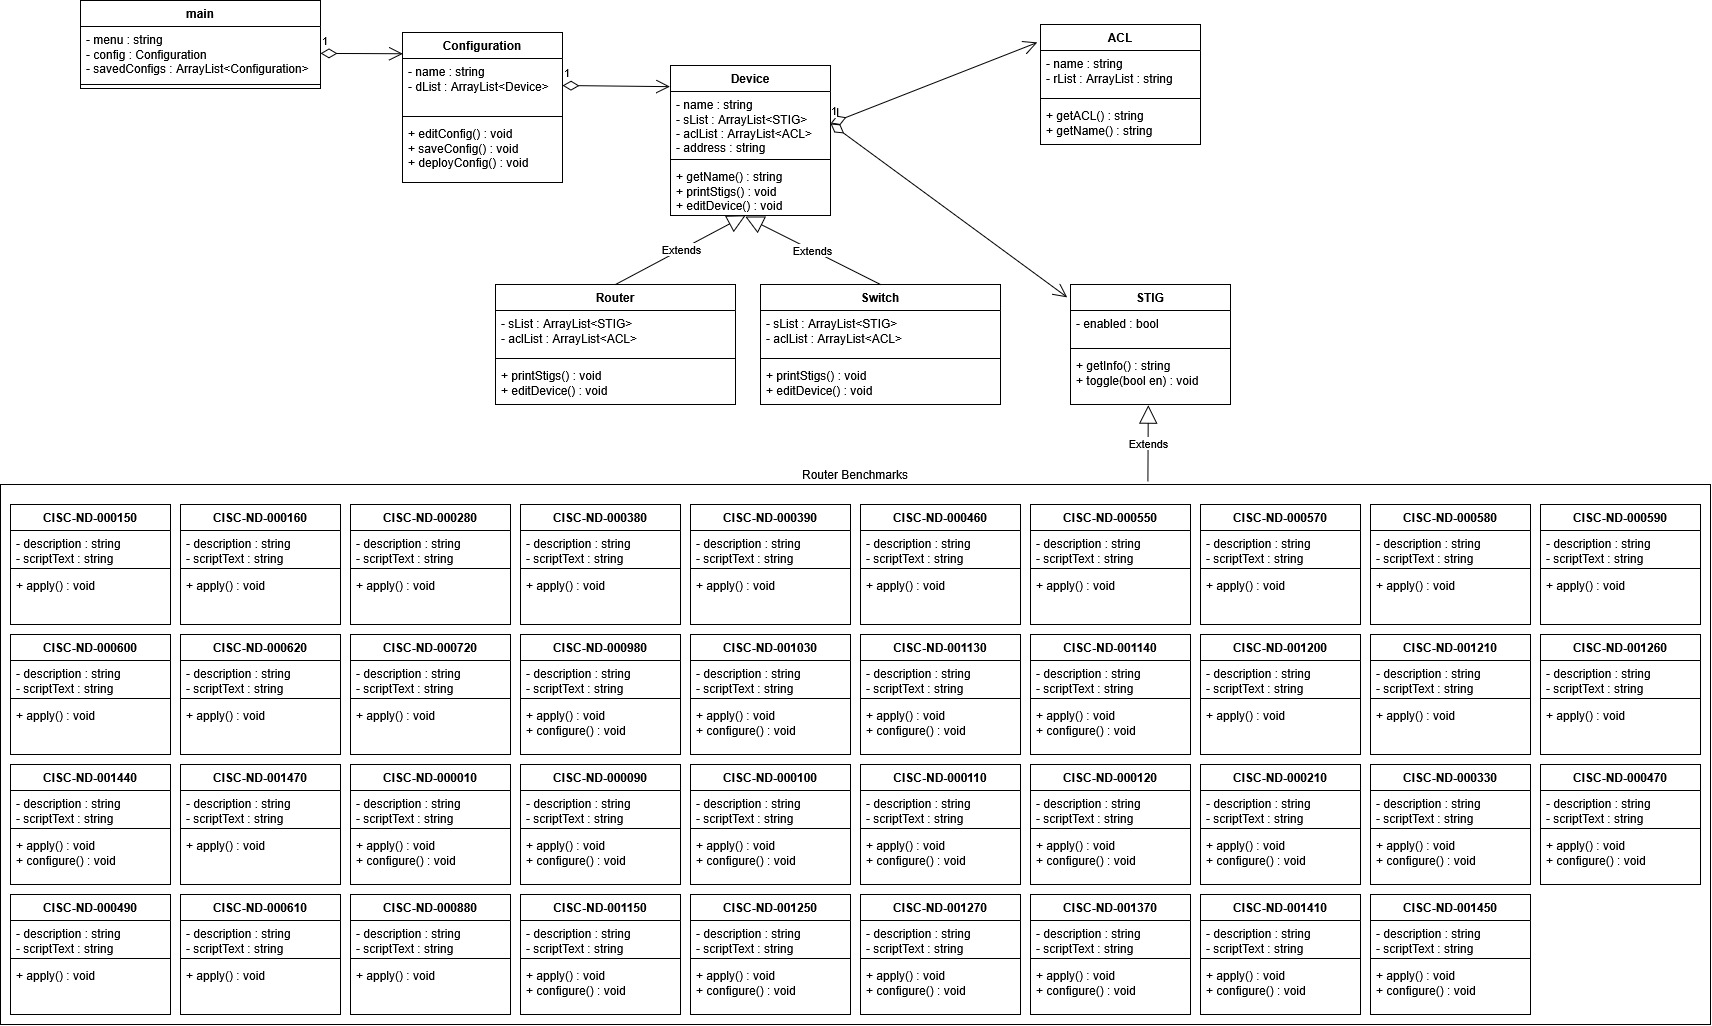
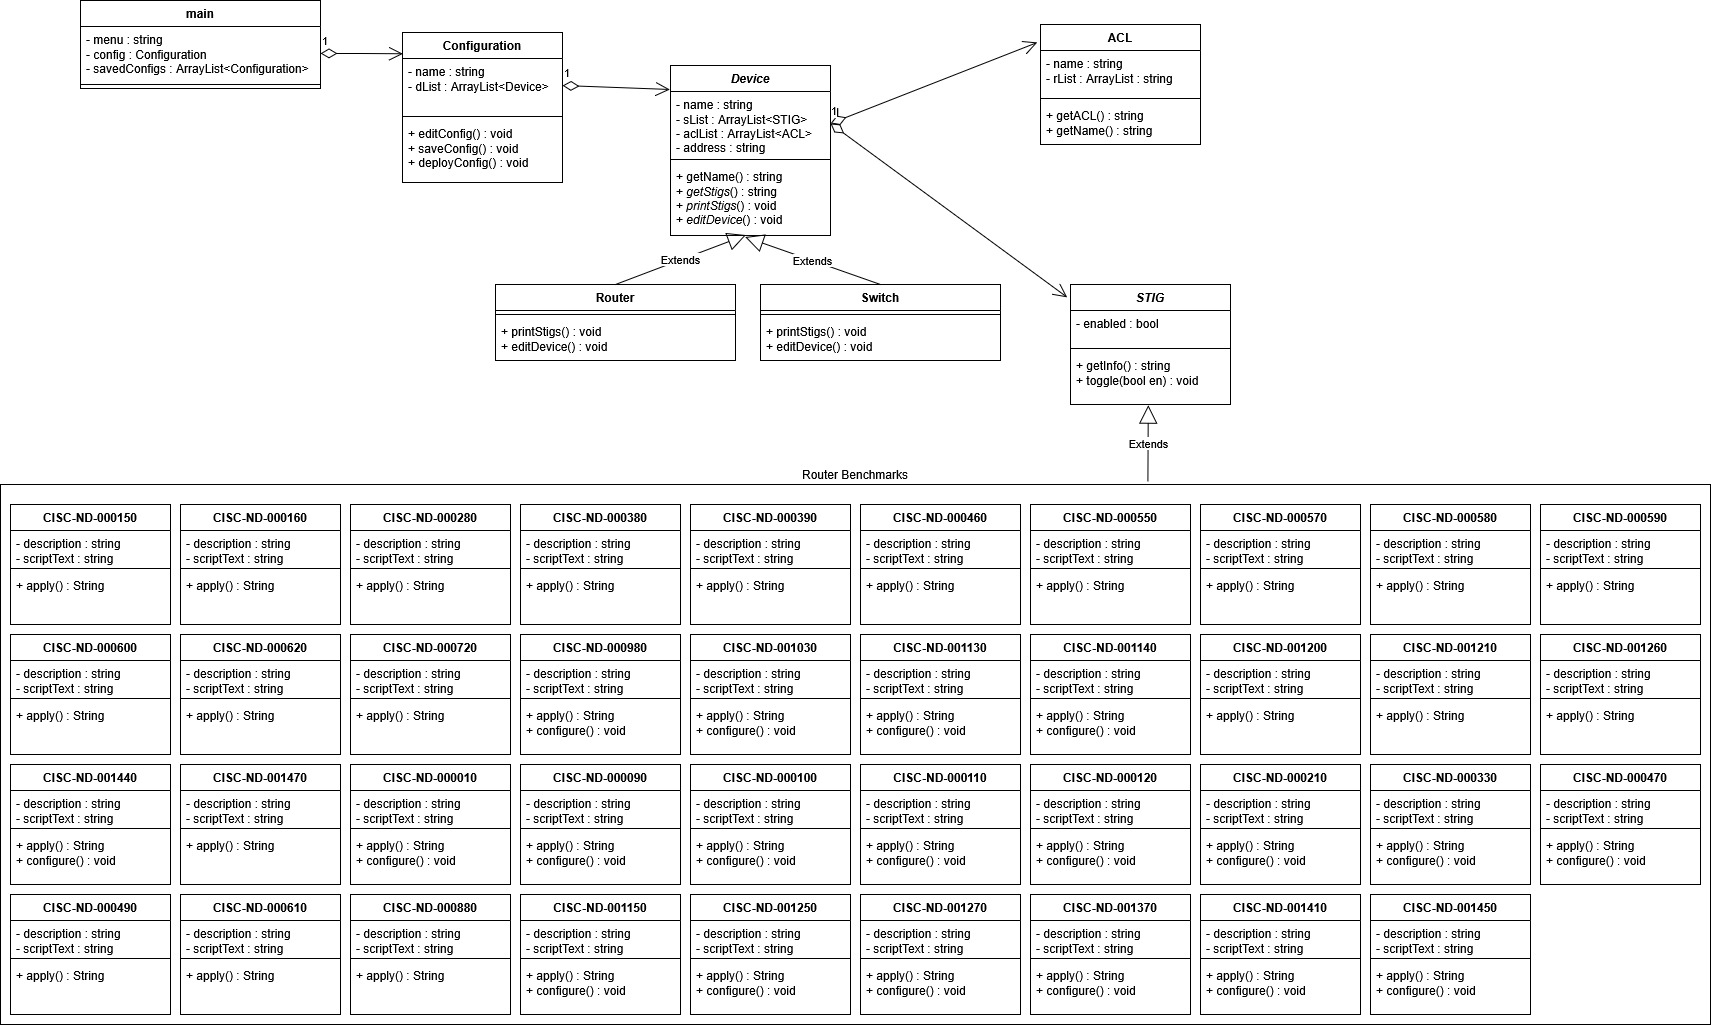
Finished framework and updated class diagram

diff --git a/src/main/java/com/gatech/stig/deploy/StigDeploy.java b/src/main/java/com/gatech/stig/deploy/StigDeploy.java
@@ -8,14 +8,14 @@ import java.util.Scanner;
 
 /**
  *
- * @author root
+ * @author jmarsh40
  */
 public class StigDeploy {
-    private static final String menu = "Please select an option: \nCreate a new configuration: 1 \nLoad a configuration: 2 \nExit: 3\n"; // Main menu text
-    private static Configuration config; // Current configuration
-    private static Configuration[] savedConfigs; // Saved configurations
+    private final String menu = "Please select an option: \nCreate a new configuration: 1 \nLoad a configuration: 2 \nExit: 3\n"; // Main menu text
+    private Configuration config; // Current configuration
+    private Configuration[] savedConfigs; // Saved configurations
 
-    public static void main(String[] args) {
+    public void main(String[] args) {
         Scanner selector = new Scanner(System.in); // Selector object to intake user input
         /* Main Menu loop*/
         while (true) {
@@ -40,7 +40,7 @@ public class StigDeploy {
         }
     }
     /* Load saved configurations */
-    private static void loadConfigs() {
+    private void loadConfigs() {
         // TBD
     }
 }

diff --git a/src/main/java/com/gatech/stig/deploy/Switch.java b/src/main/java/com/gatech/stig/deploy/Switch.java
@@ -6,26 +6,32 @@ package com.gatech.stig.deploy;
 
 /**
  *
- * @author Ragnarak
+ * @author jmarsh40
  */
 public class Switch extends Device {
-    private static STIG[] sList; // list of STIGs for device
-    private static ACL[] aclList; // list of ACLs for switch
-    
+   
     /* Constructor to load STIGs */
     public Switch() {
+        loadStigs();
         /* TBD */
     }
+    
+    /* Return the device's list of STIGs */
+    public String getStigs(){
+            /* TBD */
+            return "";
+    }
+    
     /* Configure the switch STIGs */
-    public static void editSwitch() {
+    public void editDevice() {
         /* TBD */
     }
-    /* Load the switch specific STIGs */
-    public static void loadStigs() {
+    /* Load the switch-specific STIGs */
+    public void loadStigs() {
         /* TBD */
     }
     /* Print STIG information */
-    public static void printStigs() {
+    public void printStigs() {
         /* TBD */
     }
 }

diff --git a/src/main/java/com/gatech/stig/deploy/Device.java b/src/main/java/com/gatech/stig/deploy/Device.java
@@ -6,13 +6,25 @@ package com.gatech.stig.deploy;
 
 /**
  *
- * @author Ragnarak
+ * @author jmarsh40
  */
-public class Device {
-    private static String name; // device name
+abstract public class Device {
+    private String name; // device name
+    private STIG[] sList; // list of device-specific stigs
+    private ACL[] aclList; // list of user-configure ACLs
+    private String address; // IP address of device for SSH
     
     /* Return device name */
-    public static String getName() {
+    public String getName() {
         return name;
     }
+    
+    /* Return the device's list of STIGs */
+    abstract public String getStigs();
+            
+    /* Create an Ansible Playbook for the device configuration */
+    abstract public void printStigs();
+    
+    /* Configure and toggle the STIGs for the device */
+    abstract public void editDevice();
 }

diff --git a/src/main/java/com/gatech/stig/deploy/Configuration.java b/src/main/java/com/gatech/stig/deploy/Configuration.java
@@ -6,22 +6,24 @@ package com.gatech.stig.deploy;
 
 /**
  *
- * @author Ragnarak
+ * @author jmarsh40
  */
 public class Configuration {
-    public static String name = "New Configuration"; // configuration name
-    private static Device[] dList; // list of devices in configuration
+    public String name = "New Configuration"; // configuration name
+    private Device[] dList; // list of devices in configuration
     
     /* Edit the configuration */
-    public static void editConfig() {
+    public void editConfig() {
         /* TBD */
     }
     
-    public static void saveConfig() {
+    /* Save the configuration */
+    public void saveConfig() {
         /* TBD */
     }
     
-    public static void deployConfig() {
+    /* Deploy the configuration */
+    public void deployConfig() {
         /* TBD */
     }
 }

diff --git a/src/main/java/com/gatech/stig/deploy/stigs/router/CISC_ND_000150.java b/src/main/java/com/gatech/stig/deploy/stigs/router/CISC_ND_000150.java
@@ -1,0 +1,21 @@
+/*
+ * Click nbfs://nbhost/SystemFileSystem/Templates/Licenses/license-default.txt to change this license
+ * Click nbfs://nbhost/SystemFileSystem/Templates/Classes/Class.java to edit this template
+ */
+package com.gatech.stig.deploy.stigs.router;
+
+/**
+ *
+ * @author Ragnarak
+ */
+public class CISC_ND_000150 {
+    private String title = "CISC-ND-000150"; // stig ID
+    private String description = "The Cisco router must be configured to enforce the limit of three consecutive invalid logon attempts, after which time it must lock out the user account from accessing the device for 15 minutes.";
+    private String scriptText = "";
+    
+    /* return the text of the script to be written to the ansible playbook */
+    public String apply(){
+        /* TBD */
+        return "";
+    }
+}

diff --git a/src/main/java/com/gatech/stig/deploy/Router.java b/src/main/java/com/gatech/stig/deploy/Router.java
@@ -6,8 +6,32 @@ package com.gatech.stig.deploy;
 
 /**
  *
- * @author Ragnarak
+ * @author jmarsh40
  */
 public class Router extends Device{
-    /* TBD */
+    
+    /* Constructor to load STIGs */
+    public Router() {
+        loadStigs();
+        /* TBD */
+    }
+    
+        /* Return the device's list of STIGs */
+    public String getStigs(){
+            /* TBD */
+            return "";
+    }
+    
+    /* Configure the Router STIGs */
+    public void editDevice() {
+        /* TBD */
+    }
+    /* Load the router-specific STIGs */
+    public void loadStigs() {
+        /* TBD */
+    }
+    /* Print STIG information */
+    public void printStigs() {
+        /* TBD */
+    }
 }

diff --git a/src/main/java/com/gatech/stig/deploy/ACL.java b/src/main/java/com/gatech/stig/deploy/ACL.java
@@ -6,18 +6,18 @@ package com.gatech.stig.deploy;
 
 /**
  *
- * @author Ragnarak
+ * @author jmarsh40
  */
 public class ACL {
-    private static String name; // access control list name
-    private static String[] rList; // list of rules in ACL
+    private String name; // access control list name
+    private String[] rList; // list of rules in ACL
     
     /* Return the ACL name */
-    public static String getName() {
+    public String getName() {
         return name;
     }
     /* Return ACL rule list */
-    public static String getACL() {
+    public String getACL() {
         return String.join("\n", rList);
     }
 }

diff --git a/src/main/java/com/gatech/stig/deploy/STIG.java b/src/main/java/com/gatech/stig/deploy/STIG.java
@@ -6,8 +6,17 @@ package com.gatech.stig.deploy;
 
 /**
  *
- * @author Ragnarak
+ * @author jmarsh40
  */
-public class STIG {
-    private static String title; // title of the benchmark
+abstract public class STIG {
+    private String title; // title of the benchmark
+    private boolean enabled; // toggle to enable/disable benchmark
+    
+    /* Return STIG info */
+    abstract public String getInfo();
+    
+    /* Toggle STIG */
+    public void enable(boolean en){
+        enabled = en;
+    }
 }
